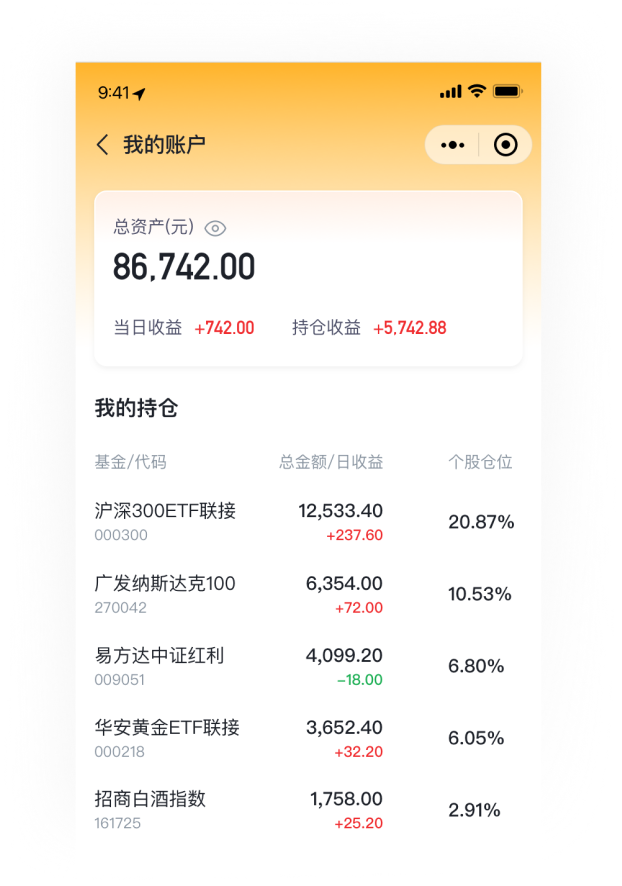
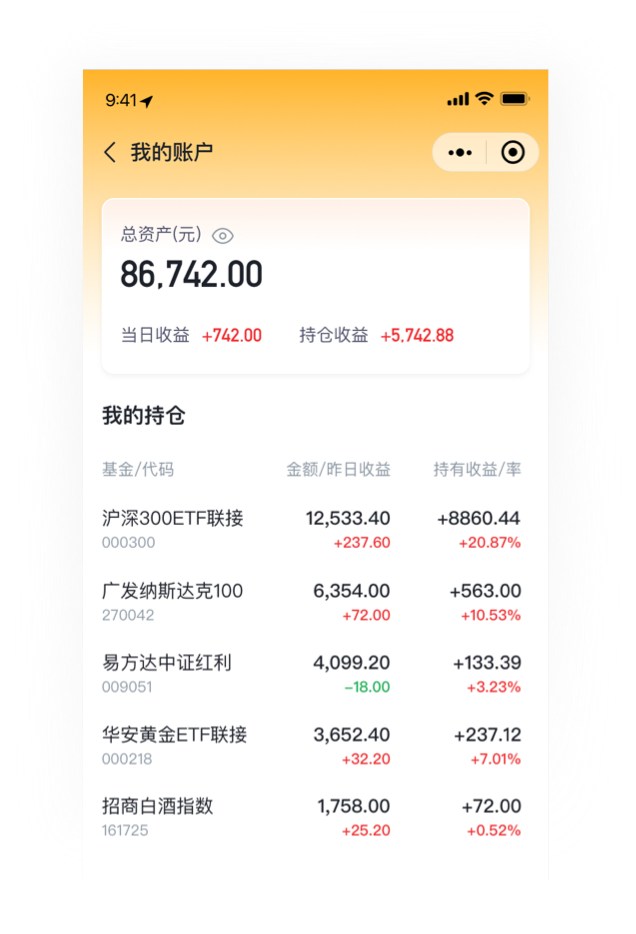
feat: refine valuation holdings experience

diff --git a/src/subPages/valuation-tool/components/PortfolioSummaryCard.vue b/src/subPages/valuation-tool/components/PortfolioSummaryCard.vue
@@ -38,8 +38,8 @@ function formatProfitAmount(value: number) {
 
     <view class="relative z-1">
       <view class="mb-[16rpx] flex items-center justify-between gap-[16rpx]">
-        <text class="text-base text-primary font-500">
-          持仓看板
+        <text class="text-xs text-secondary">
+          {{ realtimeStatusText }}
         </text>
 
         <view
@@ -58,40 +58,31 @@ function formatProfitAmount(value: number) {
           <text class="mt-[8rpx] block text-[46rpx] text-[#183B63] font-700 leading-[1]">
             {{ formatAmount(summary.totalAmount) }}
           </text>
-
-          <view class="mt-[16rpx] flex flex-col items-center">
-            <text class="text-[20rpx] text-[#7A8EA8]">
-              累计收益
-            </text>
-            <text class="mt-[6rpx] block text-[32rpx] font-700 leading-[1.04]" :class="getPortfolioValueTone(summary.totalProfit)">
-              {{ formatProfitAmount(summary.totalProfit) }}
-            </text>
-            <text class="mt-[6rpx] text-[20rpx]" :class="getPortfolioValueTone(summary.totalProfitRate)">
-              {{ formatPercent(summary.totalProfitRate) }}
-            </text>
-          </view>
         </view>
 
-        <view class="realtime-panel mt-[16rpx] rounded-[20rpx] px-[18rpx] py-[14rpx]">
-          <view class="flex items-start justify-between gap-[18rpx]">
-            <view class="min-w-0 flex-1">
+        <view class="realtime-panel mt-[20rpx] rounded-[20rpx] px-[18rpx] py-[16rpx]">
+          <view class="grid grid-cols-2 gap-[18rpx]">
+            <view class="min-w-0 text-left">
               <text class="block text-[20rpx] text-[#7489A4]">
-                实时涨跌幅
+                累计收益
               </text>
-              <text class="mt-[8rpx] block text-[30rpx] font-700 leading-[1.04]" :class="realtimeToneClass">
-                {{ todayUnavailable ? '--' : formatPercent(summary.todayChangeRate) }}
+              <text class="mt-[8rpx] block text-[30rpx] font-700 leading-[1.04]" :class="getPortfolioValueTone(summary.totalProfit)">
+                {{ formatProfitAmount(summary.totalProfit) }}
               </text>
-              <text class="mt-[6rpx] block text-[19rpx] text-[#8397B0]">
-                {{ realtimeStatusText }}
+              <text class="mt-[6rpx] block text-[20rpx] font-500" :class="getPortfolioValueTone(summary.totalProfitRate)">
+                {{ formatPercent(summary.totalProfitRate) }}
               </text>
             </view>
 
-            <view>
-              <text class="block text-[18rpx] text-[#8094AE]">
-                今日盈亏估算
+            <view class="min-w-0 text-right">
+              <text class="block text-[20rpx] text-[#7489A4]">
+                实时收益
               </text>
-              <text class="mt-[30rpx] block text-xl font-500 leading-[1.05]" :class="todayUnavailable ? 'text-[#8CA0BA]' : getPortfolioValueTone(summary.todayProfit)">
+              <text class="mt-[8rpx] block text-[30rpx] font-700 leading-[1.04]" :class="todayUnavailable ? 'text-[#8CA0BA]' : getPortfolioValueTone(summary.todayProfit)">
                 {{ todayUnavailable ? '--' : formatProfitAmount(summary.todayProfit ?? 0) }}
+              </text>
+              <text class="mt-[6rpx] block text-[20rpx] font-500" :class="realtimeToneClass">
+                {{ todayUnavailable ? '--' : formatPercent(summary.todayChangeRate) }}
               </text>
             </view>
           </view>

diff --git a/src/subPages/valuation-tool/utils.ts b/src/subPages/valuation-tool/utils.ts
@@ -31,6 +31,24 @@ export function normalizeKeyword(value: unknown) {
   }
 }
 
+export function formatServiceUpdateTime(value?: string | null) {
+  if (!value)
+    return ''
+
+  const normalizedValue = value.includes('T') ? value : value.replace(' ', 'T')
+  const timestamp = Date.parse(normalizedValue)
+  if (Number.isNaN(timestamp))
+    return value
+
+  const date = new Date(timestamp)
+  const year = date.getFullYear()
+  const month = `${date.getMonth() + 1}`.padStart(2, '0')
+  const day = `${date.getDate()}`.padStart(2, '0')
+  const hours = `${date.getHours()}`.padStart(2, '0')
+  const minutes = `${date.getMinutes()}`.padStart(2, '0')
+  return `${year}-${month}-${day} ${hours}:${minutes}`
+}
+
 export function createSearchPath() {
   return `/subPages/valuation-tool/search`
 }
@@ -250,7 +268,7 @@ export function mapFundRealtimeDataToIntraday(realtimeData?: FundRealtimeDataSer
   return {
     value: ratio === null ? 0 : ratio * 100,
     unit: '%',
-    updateTime: formatCurrentTime(),
+    updateTime: readRealtimeDataUpdateTimeText(realtimeData) || formatCurrentTime(),
     source: 'estimate',
     explanation: `当前参考净值约为 ${formatMetricNumber(nav, 4)}，较上一交易日净值变动 ${formatSignedNumber(navChange || 0, 4)}，对应盘中参考涨跌 ${formatSignedNumber((ratio || 0) * 100, 2)}%。`,
   }
@@ -296,7 +314,7 @@ export function mapFundRealtimeDataToExchangeQuote(
     currentPrice,
     priceChangeRatio: priceChangeRatio === null ? null : priceChangeRatio * 100,
     premiumRate: premiumRate === null ? null : premiumRate * 100,
-    updateTime: formatCurrentTime(),
+    updateTime: readRealtimeDataUpdateTimeText(realtimeData) || formatCurrentTime(),
     source: 'realtime',
     explanation: `当前参考净值 ${formatMetricNumber(currentPrice, 4)}，盘中参考涨跌 ${formatPercent(priceChangeRatio === null ? null : priceChangeRatio * 100)}，折溢价率 ${formatPercent(premiumRate === null ? null : premiumRate * 100)}。`,
   }
@@ -340,6 +358,19 @@ function readRealtimeDataNavChange(realtimeData?: FundRealtimeDataServiceRespons
 
   const previousNav = nav / (1 + ratio)
   return nav - previousNav
+}
+
+function readRealtimeDataUpdateTimeText(realtimeData?: FundRealtimeDataServiceResponse | null) {
+  if (!realtimeData)
+    return ''
+
+  const payload = realtimeData as FundRealtimeDataServiceResponse & {
+    updateAt?: string | null
+    updatedAt?: string | null
+    updateTime?: string | null
+  }
+
+  return formatServiceUpdateTime(payload.updateAt || payload.updatedAt || payload.updateTime)
 }
 
 function formatCurrentTime() {

diff --git a/src/subPages/valuation-tool/composables/usePortfolio.ts b/src/subPages/valuation-tool/composables/usePortfolio.ts
@@ -32,7 +32,7 @@ import { getPortfolioDeleteErrorMessage, isPortfolioDeleteSuccess } from '../pos
 import {
   buildPortfolioSummary,
   createPositionId,
-  formatCurrentTimeLabel,
+  formatServiceUpdateTime,
   isPortfolioPreviewState,
 } from '../utils'
 
@@ -316,6 +316,9 @@ export function usePortfolio() {
         const todayProfit = yieldRatio === null
           ? null
           : currentAmount - currentAmount / (1 + yieldRatio)
+        const updateTime = formatServiceUpdateTime(
+          realtimeItem?.updateAt,
+        ) || ''
 
         return {
           position: {
@@ -340,7 +343,7 @@ export function usePortfolio() {
             dailyChangeRate,
             statusLabel: resolveStatusLabel(cumulativeProfitRate),
             note: '持仓累计收益已同步到最新记录。',
-            updateTime: formatCurrentTimeLabel(),
+            updateTime,
           } satisfies PortfolioPositionMetrics,
         }
       })

diff --git a/src/subPages/valuation-tool/types.ts b/src/subPages/valuation-tool/types.ts
@@ -70,6 +70,9 @@ export interface PositionItemServiceResponse {
 export interface PositionRealtimeItemServiceResponse {
   code: string
   nav: number
+  updateAt?: string | null
+  updatedAt?: string | null
+  updateTime?: string | null
   yieldChange: number
 }
 
@@ -110,6 +113,9 @@ export interface FundRealtimeDataExchangeResponse {
   channel: 'EXCHANGE'
   nav: number
   premiumRate: number
+  updateAt?: string | null
+  updatedAt?: string | null
+  updateTime?: string | null
   yield_change?: number | null
   yieldChange?: number | null
 }
@@ -117,6 +123,9 @@ export interface FundRealtimeDataExchangeResponse {
 export interface FundRealtimeDataOtcResponse {
   channel: 'OTC'
   nav: number
+  updateAt?: string | null
+  updatedAt?: string | null
+  updateTime?: string | null
   yield_change: number
   yieldChange?: number | null
   nav_change?: number | null

diff --git a/src/subPages/valuation-tool/holdings.vue b/src/subPages/valuation-tool/holdings.vue
@@ -54,7 +54,7 @@ function handleOpenFundDetail(code: string) {
     <view class="pointer-events-none absolute inset-x-0 top-0 h-[360rpx] bg-[linear-gradient(180deg,_rgba(232,241,255,0.96),_rgba(248,250,253,0.72)_58%,_transparent)]" />
     <view class="pointer-events-none absolute inset-x-0 top-[120rpx] h-[220rpx] bg-[radial-gradient(circle_at_top,_rgba(22,120,255,0.08),_transparent_68%)]" />
 
-    <view class="relative mx-auto max-w-[702rpx] flex flex-col gap-[20rpx]">
+    <view class="relative mx-auto flex flex-col gap-[20rpx]">
       <template v-if="isLoadingState">
         <view class="border border-line/70 rounded-[20rpx] bg-surface px-[24rpx] py-[24rpx] shadow-[0_16rpx_40rpx_rgba(17,37,62,0.05)]">
           <SkeletonBlock height="32rpx" width="180rpx" rounded="14rpx" />

diff --git a/src/subPages/valuation-tool/components/PositionDataTable.vue b/src/subPages/valuation-tool/components/PositionDataTable.vue
@@ -20,9 +20,6 @@ const emit = defineEmits<{
           <text class="block text-base text-primary font-600">
             持仓明细
           </text>
-          <text class="mt-[6rpx] block text-[22rpx] text-secondary">
-            按基金维度查看累计收益与当日表现
-          </text>
         </view>
       </view>
     </view>
@@ -46,7 +43,7 @@ const emit = defineEmits<{
       @click="emit('select', item.code)"
     >
       <view class="min-w-0 pr-[12rpx]">
-        <text class="block truncate text-sm text-primary font-600">
+        <text class="block truncate text-sm text-primary font-500">
           {{ item.name }}
         </text>
         <text class="mt-[6rpx] block text-xs text-secondary">
